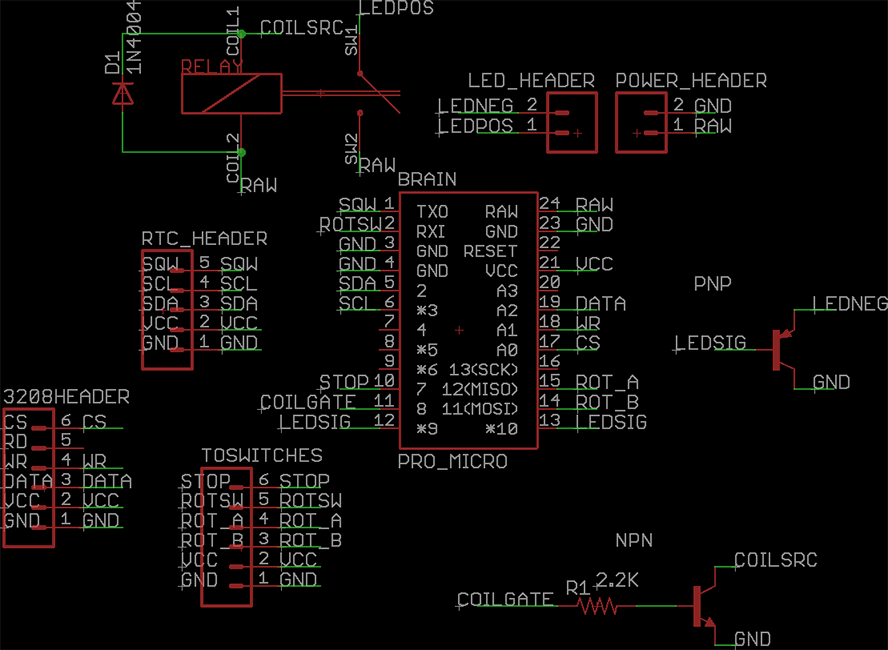
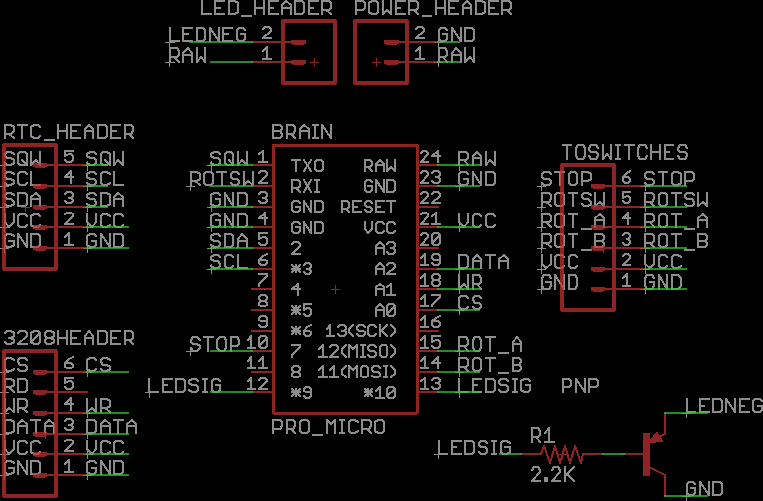
version 3.0a

Changed region(s): [[0.0, 0.0, 1.0, 1.0], [0.5125, 0.7784, 1.0, 1.0], [0.7235, 0.7485, 0.7837, 0.7784]]

diff --git a/ReadMe.md b/ReadMe.md
@@ -1,4 +1,4 @@
-# Arduino SunriseClock v2.1b #
+# Arduino SunriseClock v3.0a #
 https://github.com/lincolnjohnson/SunriseClock
 ReadMe file  
 Lincoln Johnson August 2016
@@ -42,7 +42,7 @@ The Pro Micro tends to be cranky with the Arduino IDE sometimes, especially if y
 
 I strongly suggest you use a high-quality power supply, as when cheap ebay ones start to die they tend to send out significant voltage spikes that fry things... such as your Arduino.
 
-"Arduino SunriseClock v2.1b" by Lincoln Johnson is licensed under CC BY-SA 4.0.
+"Arduino SunriseClock v3.0a" by Lincoln Johnson is licensed under CC BY-SA 4.0.
 Included libraries are licensed under the licenses provided by their respective creators.
 
 ## Usage notes ##
@@ -72,11 +72,8 @@ Rotary encoder used to:
 - 1x Pushbutton switch (1825910-6 used)
 - 1x Rotary encoder with pushbutton switch (EN12-HS22AF20 used)
 - 2x 0.1uF capacitor (K104K10X7RF5UH5 used)
-- 1x Diode (1N4004 used)
-- 1x PNP transistor (KSB772YSTU used) OR 1x n-channel mosfet (FQU13N06L used)
-- 1x NPN transistor (KSD882YSTU used)
-- 3x 2.2k resistors
-- 1x 12V relay (ALKS321 used)
+- 1x n-channel mosfet (FQU13N06L used)
+- 2x 2.2k resistors
 - 2x 11 pin female headers to enable easy replacement of arduino in case of failure
 - 3x 6 pin headers to connect 3208 matrix and switches board
 - 1x 5 pin header to connect RTC
@@ -110,6 +107,8 @@ This is the board with the rotary encoder and button on it. If you want it on on
 
 ## Eagle board PCB layout ##
 
+**THIS BOARD IS FOR VERSION 2.0, has not been updated yet to show changes for version 3**
+
 I haven't tested this board yet as it hasn't shown up from the fab. It's probably wrong/may cause a black hole to form and destroy the planet. In fact, I think I made a mistake on it, but won't be sure until the boards show up. Use at your own risk.
 
 This will need additional wires soldered on the LED power ciruit to handle the ~72W power drain if you use the set trace length. Also a 2.2k resistor soldered between pin 9 and position 3 on the PNP resistor spot if you're using a mosfet.
@@ -129,6 +128,16 @@ Called by interrupt, reads the inputs from pushbutton with software debouncing
 `stop();`
 #####Parameters
 None.
+#####Returns
+Nothing.
+
+###void toggleLamp(boolean on)
+#####Description
+Toggles lamp on or off
+#####Syntax
+`toggleLamp(0);`
+#####Parameters
+*(boolean)* on - 0 or false is off, 1 or true is on
 #####Returns
 Nothing.
 
